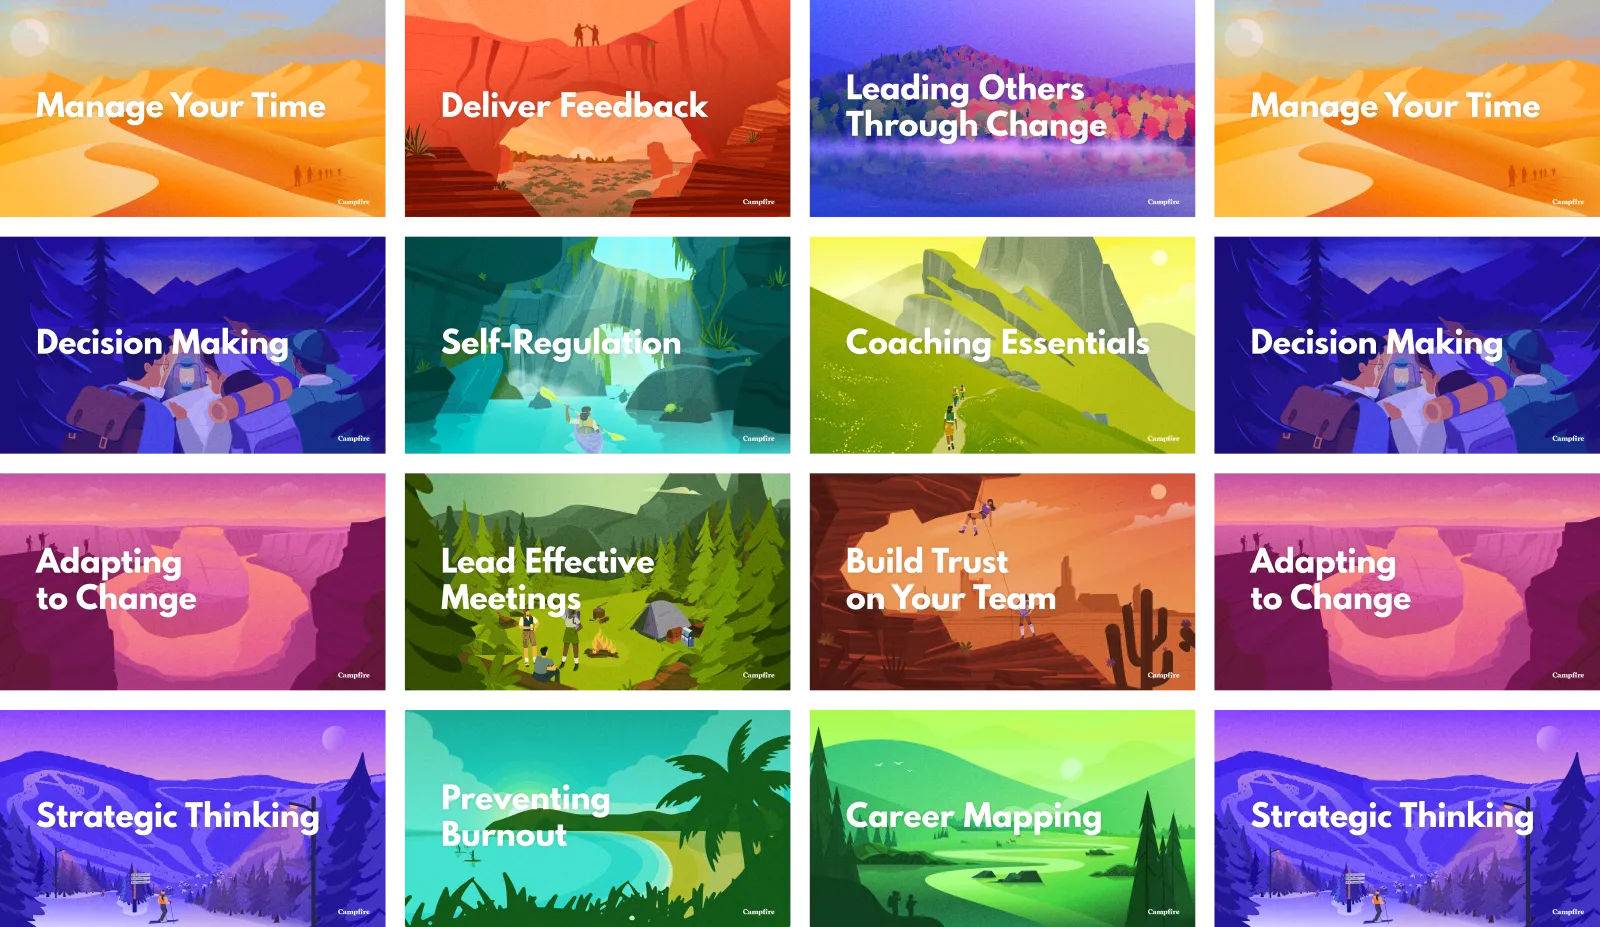
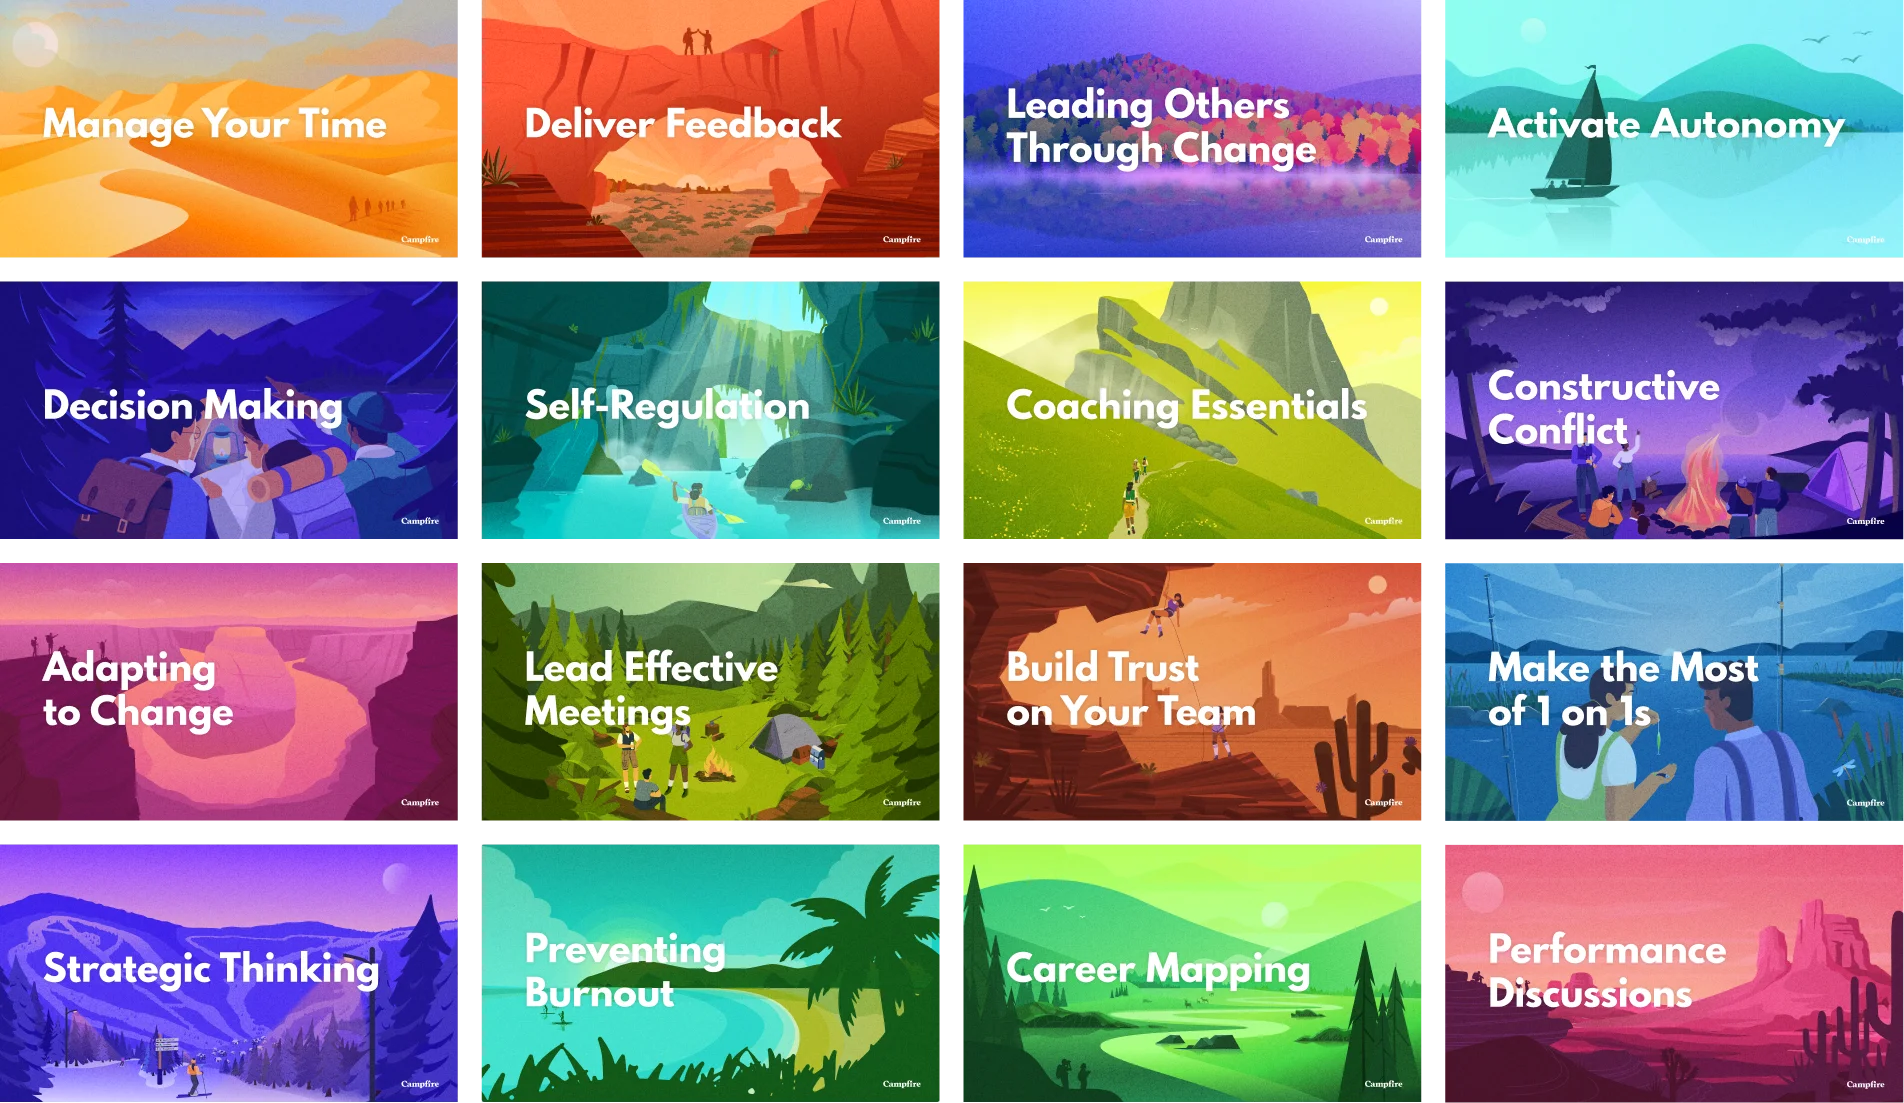
Sentence case all headers site-wide + update content catalog image
- Convert all non-hero headers to sentence case across every page
- Keep hero h1 titles in Title Case, Campfire always capitalized
- Update content-catalog.webp with new version

diff --git a/app/content/page.tsx b/app/content/page.tsx
@@ -43,7 +43,7 @@ export default function ContentPage() {
         <div className="max-w-5xl mx-auto px-6">
           <div className="text-center mb-14">
             <h2 className="text-3xl md:text-4xl font-bold text-gray-900">
-              Grounded in Proven Leadership Frameworks
+              Grounded in proven leadership frameworks
             </h2>
             <p className="mt-4 text-lg text-gray-500 max-w-3xl mx-auto">
               Our content draws from established leadership research and proven
@@ -55,19 +55,19 @@ export default function ContentPage() {
           <div className="grid grid-cols-1 md:grid-cols-3 gap-8">
             {[
               {
-                title: "Communication & Feedback",
+                title: "Communication & feedback",
                 desc: "We integrate proven approaches to feedback, coaching, and adaptive leadership to help managers communicate clearly and lead with confidence.",
                 tags: ["Radical Candor", "Coaching Models", "Situational Leadership"],
                 topColor: "#0122B4",
               },
               {
-                title: "Culture & Mindset",
+                title: "Culture & mindset",
                 desc: "Our content is informed by research on trust, learning, and human potential to help teams create environments where people can do their best work.",
                 tags: ["Psychological Safety", "Growth Mindset", "Strengths-Based Development"],
                 topColor: "#6A3DC5",
               },
               {
-                title: "Change & Team Performance",
+                title: "Change & team performance",
                 desc: "We apply established models of change and team dynamics to strengthen alignment, accountability, and execution across teams.",
                 tags: ["Change Management", "Team Effectiveness"],
                 topColor: "#A84AEB",
@@ -127,19 +127,19 @@ export default function ContentPage() {
             <div className="grid grid-cols-1 sm:grid-cols-2 gap-5">
               {[
                 {
-                  title: "Built for Conversation, Not Consumption",
+                  title: "Built for conversation, not consumption",
                   desc: "Learning happens through dialogue. Our content is designed to be discussed, reflected on, and applied together\u2014not passively consumed.",
                 },
                 {
-                  title: "Practical by Design",
+                  title: "Practical by design",
                   desc: "Every session translates proven frameworks into clear language, usable tools, and concrete leadership moments.",
                 },
                 {
-                  title: "Reinforced Over Time",
+                  title: "Reinforced over time",
                   desc: "Behavior change requires repetition. Skills are revisited and strengthened so growth compounds instead of fading.",
                 },
                 {
-                  title: "Relevant to Real Leadership",
+                  title: "Relevant to real leadership",
                   desc: "Content is built around the actual pressures leaders face\u2014so development feels useful, not theoretical.",
                 },
               ].map((item) => (
@@ -165,7 +165,7 @@ export default function ContentPage() {
         <div className="max-w-5xl mx-auto px-6">
           <div className="text-center mb-14">
             <h2 className="text-3xl md:text-4xl font-bold text-gray-900">
-              More Than Content. A Structured System.
+              More than content. A structured system.
             </h2>
             <p className="mt-4 text-lg text-gray-500 max-w-3xl mx-auto">
               Most leadership solutions deliver information. Campfire delivers a
@@ -178,7 +178,7 @@ export default function ContentPage() {
             {/* Traditional side */}
             <div className="bg-gray-200 rounded-t-2xl md:rounded-l-2xl md:rounded-tr-none p-8">
               <h3 className="font-bold text-gray-900 mb-6">
-                Traditional Leadership Content
+                Traditional leadership content
               </h3>
               <ul className="space-y-4 text-sm text-gray-600">
                 {[
@@ -256,18 +256,18 @@ export default function ContentPage() {
               {/* For All Employees */}
               <div className="rounded-2xl p-5" style={{ border: "1.5px solid #7A4DFF" }}>
                 <p className="text-xs font-bold tracking-wider uppercase mb-5" style={{ color: "#7A4DFF" }}>
-                  For All Employees:
+                  For all employees:
                 </p>
                 <div className="grid grid-cols-1 sm:grid-cols-2 lg:grid-cols-3 gap-3">
                   {[
-                    { title: "Team Alignment", sessions: 5, color: "#EB6593", colorLight: "#F595B6", desc: "Help people understand how their work supports broader outcomes, building clarity, focus, and shared direction." },
-                    { title: "Personal Wellness", sessions: 5, color: "#F0C321", colorLight: "#FFF564", desc: "Support individuals in navigating stress and burnout with practical ways to restore balance and sustain their energy." },
-                    { title: "Growth Mindset", sessions: 5, color: "#F07435", colorLight: "#FCA376", desc: "Help people strengthen confidence, lean into challenges, and take meaningful ownership of their growth." },
+                    { title: "Team alignment", sessions: 5, color: "#EB6593", colorLight: "#F595B6", desc: "Help people understand how their work supports broader outcomes, building clarity, focus, and shared direction." },
+                    { title: "Personal wellness", sessions: 5, color: "#F0C321", colorLight: "#FFF564", desc: "Support individuals in navigating stress and burnout with practical ways to restore balance and sustain their energy." },
+                    { title: "Growth mindset", sessions: 5, color: "#F07435", colorLight: "#FCA376", desc: "Help people strengthen confidence, lean into challenges, and take meaningful ownership of their growth." },
                     { title: "Collaboration", sessions: 5, color: "#DB4839", colorLight: "#F08C81", desc: "Give teams the tools to communicate openly, stay aligned, and work through friction with ease." },
-                    { title: "Change & Resilience", sessions: 6, color: "#88B830", colorLight: "#B4D170", desc: "Help individuals manage change fatigue, strengthen emotional resilience, and stay steady during periods of transition." },
-                    { title: "Strategic Execution", sessions: 5, color: "#F09321", colorLight: "#FAAD65", desc: "Help teams sharpen their priorities, strengthen strategic thinking, and deliver work with greater consistency and focus." },
-                    { title: "Values in Action", sessions: 5, color: "#30B859", colorLight: "#70D18E", desc: "Help people translate values into action so decisions, communication, and behaviors are aligned and intentional." },
-                    { title: "Belonging & Inclusion", sessions: 5, color: "#30C7C7", colorLight: "#74DEDE", desc: "Develop teams that create inclusive spaces where everyone feels recognized, supported, and able to contribute fully." },
+                    { title: "Change & resilience", sessions: 6, color: "#88B830", colorLight: "#B4D170", desc: "Help individuals manage change fatigue, strengthen emotional resilience, and stay steady during periods of transition." },
+                    { title: "Strategic execution", sessions: 5, color: "#F09321", colorLight: "#FAAD65", desc: "Help teams sharpen their priorities, strengthen strategic thinking, and deliver work with greater consistency and focus." },
+                    { title: "Values in action", sessions: 5, color: "#30B859", colorLight: "#70D18E", desc: "Help people translate values into action so decisions, communication, and behaviors are aligned and intentional." },
+                    { title: "Belonging & inclusion", sessions: 5, color: "#30C7C7", colorLight: "#74DEDE", desc: "Develop teams that create inclusive spaces where everyone feels recognized, supported, and able to contribute fully." },
                   ].map((program) => (
                     <div
                       key={program.title}
@@ -295,14 +295,14 @@ export default function ContentPage() {
               {/* For Leaders */}
               <div className="rounded-2xl p-5" style={{ border: "1.5px solid #B660E7" }}>
                 <p className="text-xs font-bold tracking-wider uppercase mb-5" style={{ color: "#B660E7" }}>
-                  For Leaders:
+                  For leaders:
                 </p>
                 <div className="grid grid-cols-1 sm:grid-cols-2 gap-3">
                   {[
-                    { title: "Leader Essentials", sessions: 7, color: "#30ABC7", colorLight: "#74CEDE", desc: "Equip new and emerging leaders with core skills, confidence, and support to lead effectively from day one." },
-                    { title: "Leader Accelerator", sessions: 7, color: "#644BFC", colorLight: "#8B78FF", desc: "Help leaders strengthen their ability to coach others, develop talent, and handle challenging situations effectively." },
-                    { title: "Leader Alignment", sessions: 5, color: "#328BDC", colorLight: "#5EB0FC", desc: "Help leaders translate strategy into clear priorities and consistent communication that keeps teams aligned and focused." },
-                    { title: "Lead Through Change", sessions: 6, color: "#8C4BFC", colorLight: "#AE78FF", desc: "Develop leaders who can steady their teams, reduce resistance, and keep people focused through uncertainty." },
+                    { title: "Leader essentials", sessions: 7, color: "#30ABC7", colorLight: "#74CEDE", desc: "Equip new and emerging leaders with core skills, confidence, and support to lead effectively from day one." },
+                    { title: "Leader accelerator", sessions: 7, color: "#644BFC", colorLight: "#8B78FF", desc: "Help leaders strengthen their ability to coach others, develop talent, and handle challenging situations effectively." },
+                    { title: "Leader alignment", sessions: 5, color: "#328BDC", colorLight: "#5EB0FC", desc: "Help leaders translate strategy into clear priorities and consistent communication that keeps teams aligned and focused." },
+                    { title: "Lead through change", sessions: 6, color: "#8C4BFC", colorLight: "#AE78FF", desc: "Develop leaders who can steady their teams, reduce resistance, and keep people focused through uncertainty." },
                   ].map((program) => (
                     <div
                       key={program.title}
@@ -353,7 +353,7 @@ export default function ContentPage() {
         <div className="max-w-5xl mx-auto px-6">
           <div className="text-center mb-14">
             <h2 className="text-3xl md:text-4xl font-bold text-gray-900">
-              Flexible Access to Fit Your Team
+              Flexible access to fit your team
             </h2>
             <p className="mt-4 text-lg text-gray-500 max-w-3xl mx-auto">
               Whether you need focused development or a comprehensive program,
@@ -366,19 +366,19 @@ export default function ContentPage() {
             {[
               {
                 tag: "Quick Start",
-                title: "Individual Sessions",
+                title: "Individual sessions",
                 desc: "Run a single live workshop to address a specific leadership challenge when it matters most.",
                 featured: false,
               },
               {
                 tag: "Most Popular",
-                title: "Full Library",
+                title: "Full library",
                 desc: "Ongoing access to the complete catalog, allowing you to run sessions as needs arise across teams.",
                 featured: true,
               },
               {
                 tag: "Targeted",
-                title: "Focused Bundles",
+                title: "Focused bundles",
                 desc: "A curated series focused on a specific leadership need, delivered over time to drive meaningful progress.",
                 featured: false,
               },
@@ -420,7 +420,7 @@ export default function ContentPage() {
         <div className="max-w-5xl mx-auto px-6">
           <div className="text-center mb-14">
             <h2 className="text-3xl md:text-4xl font-bold text-gray-900">
-              Custom Options, Built for You
+              Custom options, built for you
             </h2>
             <p className="mt-4 text-lg text-gray-500 max-w-3xl mx-auto">
               We work with you to tailor content so development reflects your
@@ -432,12 +432,12 @@ export default function ContentPage() {
             {[
               {
                 option: "Option 1",
-                title: "Session Branding",
+                title: "Session branding",
                 desc: "Integrate your language, values, and internal frameworks into existing sessions\u2014with light content adjustments to reflect your context.",
               },
               {
                 option: "Option 2",
-                title: "Fully Custom",
+                title: "Fully custom",
                 desc: "Partner with us to design and build entirely new sessions aligned to your priorities, initiatives, or internal strategy.",
               },
             ].map((item) => (
@@ -471,7 +471,7 @@ export default function ContentPage() {
       >
         <div className="relative z-10 max-w-3xl mx-auto px-6 text-center">
           <h2 className="text-3xl md:text-4xl font-bold text-white">
-            Explore What&apos;s Possible for Your Team
+            Explore what&apos;s possible for your team
           </h2>
           <p className="mt-4 text-lg text-white/70">
             Schedule a conversation to review the library, discuss your

diff --git a/app/page.tsx b/app/page.tsx
@@ -207,19 +207,19 @@ export default function Home() {
           <div className="grid grid-cols-1 md:grid-cols-3 gap-4 max-w-7xl mx-auto">
             {[
               {
-                title: "Adaptable Content",
+                title: "Adaptable content",
                 desc: "Choose and shape sessions around the leadership challenges your teams are facing right now.",
                 icon: "/kite.webp",
                 iconAlt: "Kite icon representing adaptable content",
               },
               {
-                title: "Flexible Facilitation",
+                title: "Flexible facilitation",
                 desc: "Deliver sessions with our facilitators or your own leaders\u2014whatever works best for your teams.",
                 icon: "/phoenix.webp",
                 iconAlt: "Phoenix icon representing flexible facilitation",
               },
               {
-                title: "Program Support",
+                title: "Program support",
                 desc: "We handle the logistics behind the scenes so programs fit into your workflow without extra lift.",
                 icon: "/plant.webp",
                 iconAlt: "Plant icon representing program support",

diff --git a/app/solutions/page.tsx b/app/solutions/page.tsx
@@ -253,17 +253,17 @@ export default function SolutionsPage() {
             {[
               {
                 step: "1",
-                title: "Identify Your Priority",
+                title: "Identify your priority",
                 desc: "Choose the leadership challenge that matters most right now.",
               },
               {
                 step: "2",
-                title: "Design Your Approach",
+                title: "Design your approach",
                 desc: "Select the sessions and format that fit your goals, culture, and timeline.",
               },
               {
                 step: "3",
-                title: "Launch and Reinforce",
+                title: "Launch and reinforce",
                 desc: "Deliver live experiences and reinforce skills over time so growth compounds.",
               },
             ].map((item) => (

diff --git a/app/customers/page.tsx b/app/customers/page.tsx
@@ -146,7 +146,7 @@ export default function CustomersPage() {
                 {/* Challenge */}
                 <div>
                   <h4 className="text-sm font-bold text-gray-900 uppercase tracking-wider mb-2">
-                    The Challenge
+                    The challenge
                   </h4>
                   <p className="text-gray-500 text-sm leading-relaxed">
                     {study.challenge}
@@ -156,7 +156,7 @@ export default function CustomersPage() {
                 {/* Solution */}
                 <div>
                   <h4 className="text-sm font-bold text-gray-900 uppercase tracking-wider mb-2">
-                    What We Did
+                    What we did
                   </h4>
                   <p className="text-gray-500 text-sm leading-relaxed">
                     {study.solution}

diff --git a/app/components/ContentShowcase.tsx b/app/components/ContentShowcase.tsx
@@ -51,7 +51,7 @@ export default function ContentShowcase() {
           style={{ backgroundColor: "#403955", paddingTop: "3rem", paddingBottom: "3rem" }}
         >
           <p className="text-sm font-semibold tracking-wider uppercase mb-4" style={{ color: "#9D88ED" }}>
-            All Campfire Sessions
+            All Campfire sessions
           </p>
           <h3 className="text-3xl md:text-[2.2rem] font-bold text-white leading-snug mb-4" style={{ maxWidth: "340px" }}>
             {s.name}

diff --git a/app/components/TestimonialCarousel.tsx b/app/components/TestimonialCarousel.tsx
@@ -70,7 +70,7 @@ export default function TestimonialCarousel() {
     <section className="py-20 bg-white overflow-hidden">
       <div className="max-w-7xl mx-auto px-6">
         <p className="text-center text-base font-bold tracking-wider uppercase mb-12" style={{ color: "rgba(147, 151, 171, 0.7)" }}>
-          What People Are Saying
+          What people are saying
         </p>
       </div>
 
